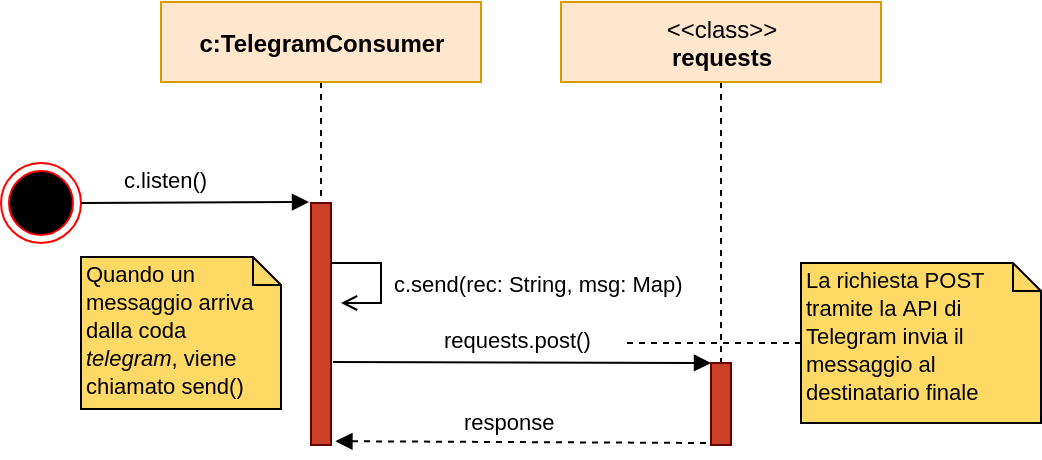
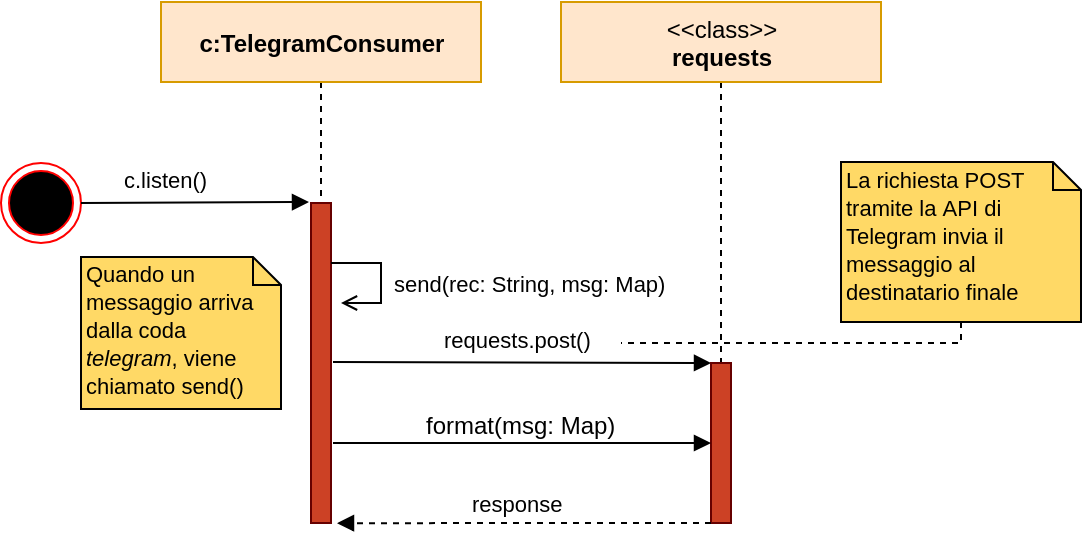
Aggiunti diagrammi di sequenza consumer

diff --git a/doc/Esterni/ManualeSviluppatore/sections/achitettura.tex b/doc/Esterni/ManualeSviluppatore/sections/achitettura.tex
@@ -245,6 +245,13 @@ al destinatario finale tramite le API dell'applicativo su cui il Consumer è bas
 Nel seguente diagramma di sequenza è possibile vedere il flusso di esecuzione che parte dalla ricezione del messaggio dalla coda \texttt{telegram}
 di Kafka all'invio del messaggio all'utente finale su Telegram.
 
+\begin{figure}[H]
+    \centering
+    \includegraphics[width=0.8\textwidth]{img/Consumer-MsgTelegram.png}\\
+    \caption[Diagramma di sequenza TelegramConsumer]{Diagramma di sequenza dell'invio di un messaggio da parte di TelegramConsumer}
+    % \label{fig:GP-Kafka}
+\end{figure}
+
 \paragraph{Diagramma dei package}
 
 Il TelegramConsumer ha 2 dipendenze esterne:
@@ -276,6 +283,16 @@ Il metodo \texttt{format()} costruisce il testo del messaggio finale utilizzando
 
 
 \subsubsection{EmailConsumer}
+Nel seguente diagramma di sequenza è possibile vedere il flusso di esecuzione che parte dalla ricezione del messaggio dalla coda \texttt{email}
+di Kafka all'invio del messaggio all'utente finale tramite server SMTP.
+
+\begin{figure}[H]
+    \centering
+    \includegraphics[width=0.8\textwidth]{img/Consumer-MsgEmail.png}\\
+    \caption[Diagramma di sequenza EmailConsumer]{Diagramma di sequenza dell'invio di un messaggio da parte di EmailConsumer}
+    % \label{fig:GP-Kafka}
+\end{figure}
+
 
 \paragraph{Diagramma dei package}
 

diff --git a/doc/Esterni/ManualeSviluppatore/sections/glossario.tex b/doc/Esterni/ManualeSviluppatore/sections/glossario.tex
@@ -76,6 +76,10 @@
         Una macchina virtuale (VM) indica un software che, attraverso un processo di virtualizzazione, crea un ambiente virtuale che emula il comportamento di una macchina fisica (PC client o server) grazie all'assegnazione di risorse hardware ed in cui alcune applicazioni possono essere eseguite come se interagissero con tale macchina.
     }\label{Macchina virtuale}
 
+    \parola{Markdown}{%
+        TODO
+    }\label{Markdown}
+
 	\parola{Metadato}{%
         Particolare dato che descrive insiemi di altri dati.
     }\label{Metadato}
